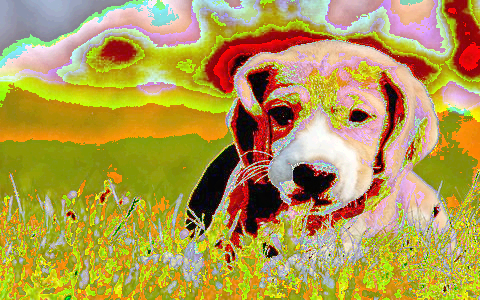
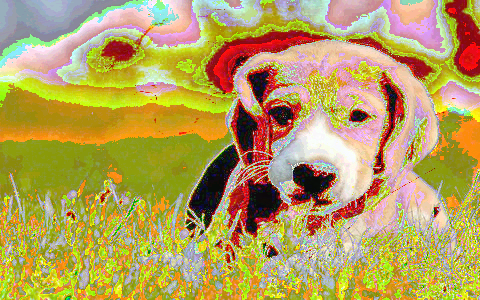
update

diff --git a/cache_image_v3.py b/cache_image_v3.py
@@ -5,7 +5,6 @@ im1 = Image.open('images/8.jpg').convert('RGB')
 im2 = Image.open('images/9.jpeg').convert('RGB')
 
 
-
 def cache_image(im1,im2):
     '''
     img,img --> img
@@ -25,23 +24,27 @@ def cache_image(im1,im2):
     # pour rappel, chaque composante d'un pixel est codée sur 8 bits : de 0 à 255 variantes d'une couleur
     for x in range(im1.width):
         for y in range(im1.height):
+            pixel1 = []
+            pixel2 = []
             r, v, b = im1.getpixel((x,y))
             r2,v2,b2 = im2.getpixel((x,y))
-            pixel1 = [bin(r)[:6],bin(v)[:6],bin(b)[:6]] # on garde les 4 premiers bits de poids fort du pixel 1``
-            #pixel1 = [pixel1[i]+(6-len(pixel1[i]))*'0' for i in range(3)] # on complete les 0 manquants
-            pixel2 = [bin(r2)[:6],bin(v2)[:6],bin(b2)[:6]] # o garde les 4 premiers bits de poids fort du pixel 2
-            #pixel2 = [pixel2[i]+(6-len(pixel2[i]))*'0' for i in range(3)] # on complete les 0 manquants
-            pixel_final = [int(pixel1[i]+pixel2[i][2:],2) for i in range(3)] # on assemble les 4 premiers bits du pixel 1 avec les 4 premier bits du pixel 2         
-            #try :
+            # ASSEMBLAGE DES 4 bits de poids fort de chaque pixel
+            
+            pixel1 = [bin(r),bin(v),bin(b)]
+            pixel2 = [bin(r2),bin(v2),bin(b2)]
+            pixel_final = [0,0,0]
+            for i in range(3):
+                pixel_final[i] = int(pixel1[i][:6]+pixel2[i][2:6],base=0)
+                #print('fusion de ' ,pixel1[i][:6], ' . et ',pixel2[i][2:6],'pour donner',pixel_final[i] )
+
             im_final.putpixel((x,y),tuple(pixel_final))
-            #except TypeError:
-                #pass
-    im_final.save('images/8+7.png')
+
+
+
+    #im_final.save('images/8+7.png')
     im_final.show()
         
 cache_image(im1,im2)
 ''
-class Steganography : 
-    def self():
-        pass
+
 

diff --git a/images/test_masque.py b/images/test_masque.py
@@ -1,0 +1,32 @@
+##----- Importation des Modules -----##
+from PIL import Image
+
+##----- Définition des Fonctions -----##
+def masque(n):
+    """Masquage des pixels de poids faible."""
+    return n & 0b11110000
+
+def decale(n, dec=4):
+    """Remplace les pixels de poids faible par les pixels de poids fort."""
+    return n >> dec  # n >> 4 = n//16
+
+##----- Informations sur les images d'origine -----##
+im1 = Image.open('images/8.jpg') # image qui restera visible
+im2 = Image.open('images/9.jpeg') # image à cacher
+l, h = im1.size
+
+##----- Conception de la nouvelle image -----##
+im_resultat = Image.new('RGB', (l, h))
+
+for x in range(l):
+    for y in range(h):
+        r1, v1, b1 = im1.getpixel((x, y))
+        r1, v1, b1 = masque(r1), masque(v1), masque(b1)
+        r2, v2, b2 = im2.getpixel((x, y))
+        r2, v2, b2 = decale(r2), decale(v2), decale(b2)
+        im_resultat.putpixel((x,y), (r1+r2, v1+v2, b1+b2))
+		# r1 + r2 = les 4 bits de poids fort de r1initial à gauche,
+		# les 4 bits de poids forts de r2initial à droite
+
+##-----Finalisation-----##
+im_resultat.show()
